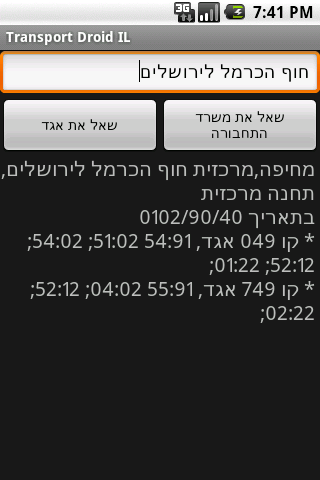
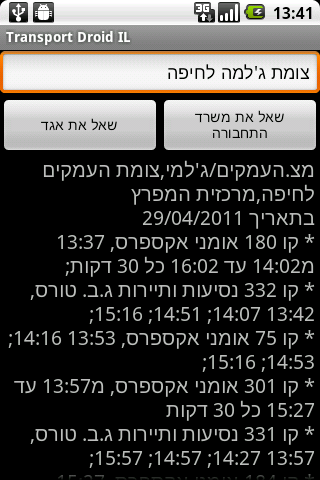
Add new screenshots, remove download link

diff --git a/index.html b/index.html
@@ -61,33 +61,20 @@
 <h2>Install</h2>
 <div>
 
-<img style="float:right" src="qrcode.png" width="205" height="205" title="TransportDroidIL-0.3.apk" />
-<p>Download <a href="TransportDroidIL-0.3.apk">TransportDroidIL-0.3.apk</a>, or scan
-this:</p>
-</div>
+The application is available on the Android Market: <a href="https://market.android.com/details?id=net.lutzky.transportdroidil&feature=search_result" />Transport Droid IL</a>. See the <a href="https://github.com/lutzky/TransportDroidIL/blob/master/README.md">README</a> for more information about this.
+
 <div style="clear:both" />
 
 <h2>Screenshots</h2>
 
-<p>...'cause we all love 'em. Notice that the numbers are reversed <b>on the
-emulator</b>, as proper BiDi support hasn't worked its way into the official
-Android build. If your phone does BiDi correctly (standard vendor ROMs in
-Israel), this application will work correctly.</p>
-
-<p>You can query Egged for faster, stabler results:</p>
 <img src="screen1.png" width="320" height="480" />
 
-<p>Alternatively, you can query the new MOT site for information on all bus
-companies and the rail company:</p>
 
 <img src="screen2.png" width="320" height="480" />
 
-<p>The query box auto-completes using previous queries:</p>
 <img src="screen3.png" width="320" height="480" />
 
-<h2>Authors</h2>
-<p>Ohad Lutzky (ohad@lutzky.net)</p>
-<h2>Contact</h2>
+<h2>Author</h2>
 <p>Ohad Lutzky (ohad@lutzky.net)</p>
 
 
